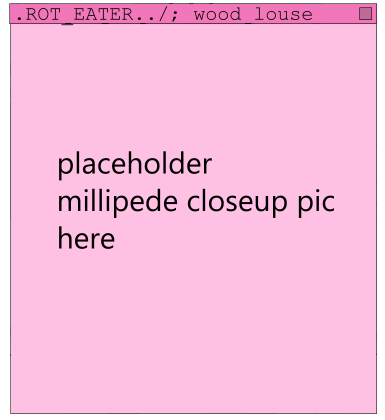
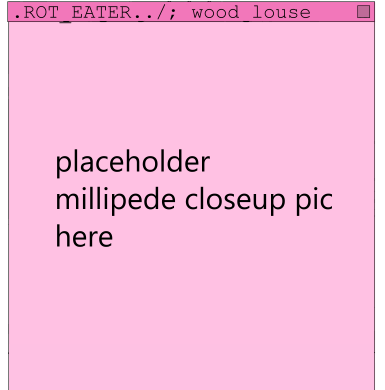
jk

Changed region(s): [[0.0, 0.0, 0.9974, 1.0], [0.1247, 0.3385, 0.8727, 0.6462]]

diff --git a/windows.css b/windows.css
@@ -63,7 +63,7 @@ body{
 
 .picadz { grid-area: picadz; background-color: pink;}
 
-.video { grid-area: video; background-image: url("Art/Adzuki/roteater.png"); background-repeat: no-repeat; background-size: video; }
+.video { grid-area: video; background-image: url("Art/Adzuki/roteater.png"); background-repeat: no-repeat; background-size: 100%; }
 
 .text3 { grid-area: text3; background-color: black; }
 
